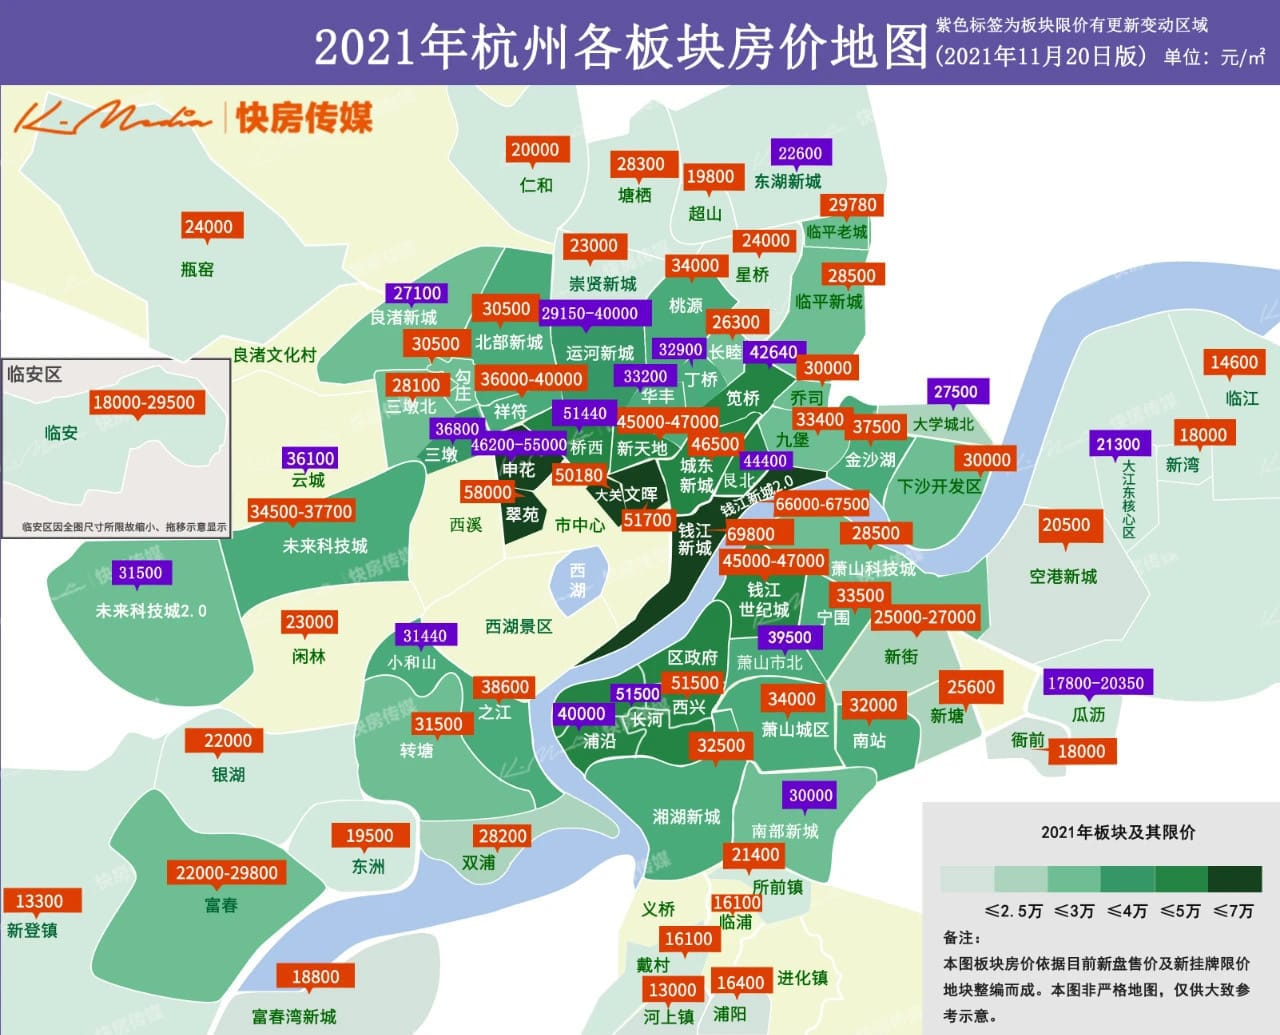
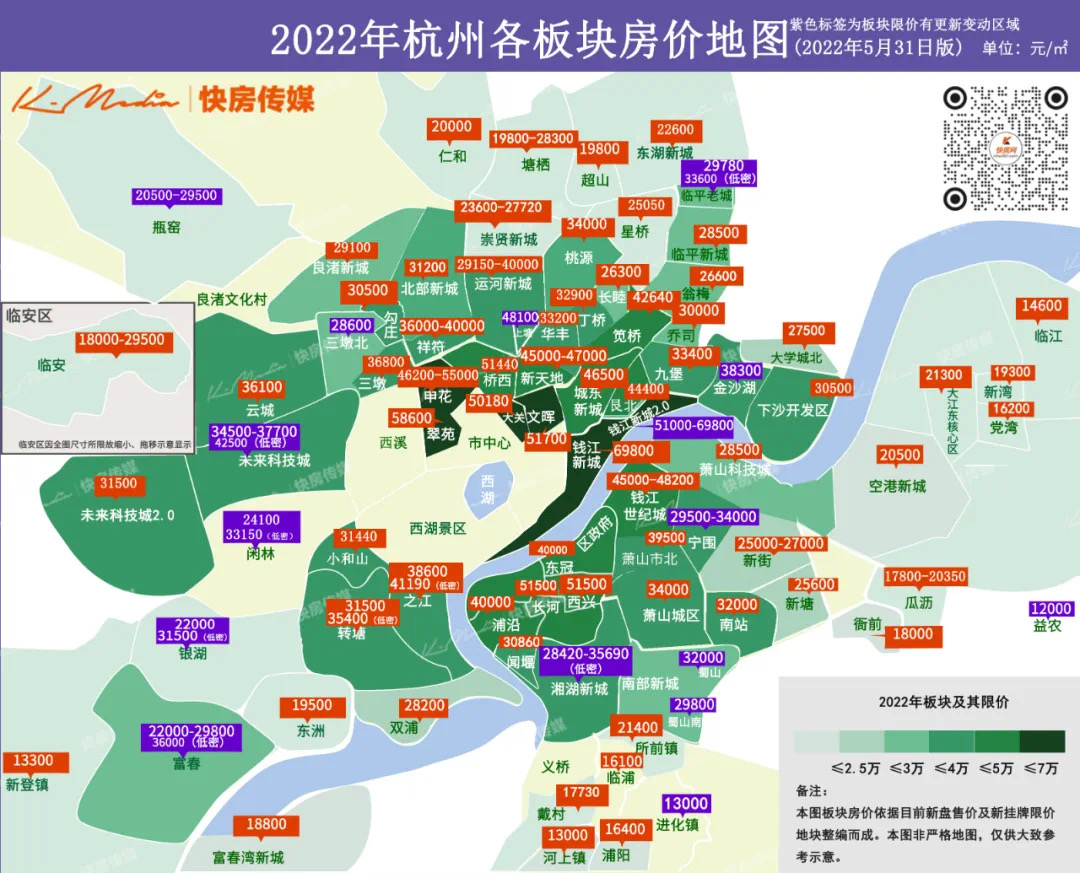
更新过时信息

diff --git a/area/README.md b/area/README.md
@@ -7,8 +7,8 @@
 ## 未来科技城
 
 :::tip 参考
-新房限价：37,000 元/平  
-二手房价格：50,000 ~ 70,000 元/平  
+新房限价：37,700 元/平  
+二手房价格：45,000 ~ 70,000 元/平  
 适合人群：有无房资格且社保月数多的新房购房者；预算充足的二手房购房者  
 :::
 
@@ -31,8 +31,8 @@
 ## 钱江世纪城
 
 :::tip 参考
-新房限价：47,000 元/平  
-二手房价格：70,000 ~ 100,000 元/平  
+新房限价：48,200 元/平  
+二手房价格：60,000 ~ 90,000 元/平  
 适合人群：有无房资格且社保月数接近满额的新房购房者；预算极充足的二手房购房者  
 :::
 
@@ -55,9 +55,9 @@
 ## 运河新城
 
 :::tip 参考
-新房限价：核心 40,000 元/平；外围 29,500 元/平  
-二手房价格：无  
-适合人群：400+万预算的新房购房者
+新房限价：核心 38,000 元/平；外围 29,500 元/平  
+二手房价格：40,000 ~ 50,000 元/平  
+适合人群：400万预算者，轻度改善、需求学区房  
 :::
 
 运河新城位于城北拱墅区，留石高架以北的京杭大运河两岸，并向东延至半山。
@@ -76,14 +76,14 @@
 
 可以看出，运河新城虽然定位不及未来科技城的高度，但是整拆整建让板块同样拥有了全新整体规划，板块中除了安置房都是可规划地块。而且规划侧重于文化层面，不再是遍地写字楼，发展前景未来可期。同时还能享受临近板块已经成熟的配套资源，加上拱墅区学区资源充足，相比未来科技城的从零发展来看，这个过渡要更平滑一些。
 
-该板块其实在2020年初还不算热门，甚至被质疑限价过高，但随着规划一点点清晰，板块热度迅速攀升，并且由于整拆也没有什么二手房值得购买，购房需求都挤压在新房上，如今中签率已经低到个位数。不过现阶段土地也供应不断，如果做好了长期摇号打算，建议不要放过这个板块。
+该板块其实在2020年初还不算热门，甚至被质疑限价过高，但随着规划一点点清晰，板块热度迅速攀升，并且由于整拆也没有什么二手房值得购买，购房需求都挤压在新房上。不过现阶段土地也供应不断，建议重点关注核心区域的新盘。
 
 ## 良渚
 
 :::tip 参考
 新房限价：29,100 元/平  
-二手房价格：35,000 ~ 42,000 元/平  
-适合人群：300+万预算的二手房购房者  
+二手房价格：30,000 ~ 38,000 元/平  
+适合人群：300万预算，城西刚需  
 :::
 
 良渚位于地铁2号线的尽头，属于余杭区，与西湖区三墩板块相邻。该板块实际属于官方划分的"良渚新城"，但由于良渚新城的范围太大（东至好运街），因此这里只讨论地铁2号线杜甫村和良渚站这部分区域。
@@ -98,9 +98,9 @@
 
 ![西湖大学效果图](../images/效果图-西湖大学.jpeg "西湖大学效果图")
 
-正如前面所说，良渚主要区域规划基本落成，所以几乎没有新盘上市，并且鉴于上一个新盘是著名“万人摇”项目，即使下次土拍有供地，也很可能沦为社保大战。
+正如前面所说，良渚主要区域规划基本落成，所以新盘稀少，可以要多点耐心。
 
-因此我推荐关注这个板块的优先考虑二手房，良渚二手房数量充足，价格相比其他热门板块不算夸张，大部分在 3.5~4 万/平左右，并且很多是 90 平以下的刚需小户型，如果总价预算只有 300 万多点的刚需，在这里还有一定选择空间。
+因此我推荐关注这个板块的优先考虑二手房，良渚二手房数量充足，价格相比其他热门板块不算夸张，大部分在 3~3.5 万/平左右，并且很多是 90 平以下的刚需小户型，如果总价预算只有 300 万的刚需，在这里还有一定选择空间。
 
 <InArticleAdsense :data-ad-client=$themeConfig.ads.client :data-ad-slot=$themeConfig.ads.inSlot is-new-ads-code="yes"></InArticleAdsense>
 
@@ -108,8 +108,8 @@
 
 :::tip 参考
 新房限价：31,200元/平  
-二手房价格：38,000 ~ 45,000 元/平  
-适合人群：300+万预算的新房购房者；350+万预算的二手房购房者  
+二手房价格：35,000 ~ 40,000 元/平  
+适合人群：350万预算者，城北刚需  
 :::
 
 北部新城位于余杭区东北部，范围东至京杭大运河，南至拱墅区区界，西至西湖区区界，北至绕城高速公路。勾庄则是指原本的勾庄镇区域，现在大部分已经被拆迁，并划入北部新城范围，所以这里一并介绍。
@@ -126,14 +126,14 @@
 
 目前新房也供应不断，虽然限价导致竞争较为激烈，但仍然推荐多关注这块区域。
 
-二手房普遍是近几年刚交房，这里只推荐关注中心地段（因为边缘地段的配套目前几乎没有），价格目前都在 4 万/平偏上，而且 90 平以下的小户型不多，所以总价预算需要达到 350 万以上。
+二手房普遍是近几年刚交房，这里只推荐关注中心地段（因为边缘地段的配套目前几乎没有），价格目前都在 4 万/平左右，而且 90 平以下的小户型不多，所以总价预算需要达到 350 万以上。
 
 ## 闲林
 
 :::tip 参考
-新房限价：24,110 元/平  
+新房限价：24,100 元/平  
 二手房价格：24,000 ~ 40,000 元/平  
-适合人群：250+万预算的购房者
+适合人群：250万预算者，未科刚需  
 :::
 
 闲林板块位于未来科技城板块南侧，理论上绿汀路以南一直到富阳区边界都应该算作闲林范围，这里只讨论靠近未来科技城这部分区域。

diff --git a/purchase/README.md b/purchase/README.md
@@ -30,8 +30,6 @@
 
 可以看出人才家庭实际参与了三次摇号，而无房家庭也参与了两次摇号，因此概率上会有明显优势。
 
-并且对于无房家庭还有一项特别照顾，如果楼盘公示均价低于 35,000 元/平方，则无房家庭倾斜比例固定为50%，其他价位的倾斜比例则由相关部门审批决定（通常为20%）。
-
 <InArticleAdsense :data-ad-client=$themeConfig.ads.client :data-ad-slot=$themeConfig.ads.inSlot is-new-ads-code="yes"></InArticleAdsense>
 
 ### 高层次人才
@@ -87,11 +85,15 @@
 
 ### 限售
 
-为了打击短期投机客，政府出台的还有限售政策。购买以下几种情况的新房，将被限制5年内无法进入市场转卖：
-1. 以人才身份参加摇号购买的房源；
-2. 购买综合中签率低于10%的房源（综合中签率=中签户数/报名总户数，由于存在相同月数入围的情况，依然可能低于10%）。
+:::warning 注意
+限售政策现已取消，但历史被限售的房源依然生效
+:::
 
-限售是以缴纳房产契税之日开始计算，而缴纳契税必须在交房之后，因此实际限售一般长达7~8年。
+~~为了打击短期投机客，政府出台的还有限售政策。购买以下几种情况的新房，将被限制5年内无法进入市场转卖：~~  
+~~1. 以人才身份参加摇号购买的房源；~~  
+~~2. 购买综合中签率低于10%的房源（综合中签率=中签户数/报名总户数，由于存在相同月数入围的情况，依然可能低于10%）。~~  
+
+~~限售是以缴纳房产契税之日开始计算，而缴纳契税必须在交房之后，因此实际限售一般长达7~8年。~~
 
 <InArticleAdsense :data-ad-client=$themeConfig.ads.client :data-ad-slot=$themeConfig.ads.inSlot is-new-ads-code="yes"></InArticleAdsense>
 

diff --git a/policy/README.md b/policy/README.md
@@ -109,7 +109,7 @@
 上浮基点则是各地各家银行自行设定，并且只要贷款合同生效后则不再变化。因此当政策和放贷收紧时，一般上浮基点都会明显提高，以限制更多的房贷申请。另外一般首套房的上浮基点会更低一点。
 
 :::tip 例如
-最新的5年期以上 LPR 基准利率是 4.65%，在某银行申请房贷时约定上浮 45BP 利率，也就是上浮 0.45%，那实际房贷利率是 `LPR (4.65%) + 45BP (0.45%) = 5.1%`。
+假设最新的5年期以上 LPR 基准利率是 4.5%，在某银行申请房贷时约定上浮 45BP 利率，也就是上浮 0.45%，那实际房贷利率是 `LPR (4.5%) + 45BP (0.45%) = 4.95%`。
 :::
 
 通过商业贷款能贷多少钱，取决于银行对你还款能力的评判。通常的评判依据是你的月收入，银行会让你提供工作单位开具的工资证明、工资银行卡的流水等材料来进行审核。一般要求月收入必须大于每月还款额的2倍，也就是你想申请每月还1万元的贷款，必须提供每月2万元以上的收入证明（当然有些银行可能要求更高）。以夫妻名义买房可以提供双方材料按双方月收入之和。

diff --git a/faq/README.md b/faq/README.md
@@ -33,16 +33,3 @@
 ## 更多问题
 
 这里列的都是常见的宽泛的问题，如果想咨询一些细致的针对性的问题，可以发布到[讨论区](https://github.com/zkqiang/hangzhou-house-guide/discussions)，让大家一起来帮助你。
-
-我本人也提供**付费咨询**，微信发 `100元红包` 可享受无限期无限次数解答。
-
-当前这里事先声明： 
-1. 解答都是我个人观点，不承担任何责任与后果。
-2. 注意本文包含的内容就不要浪费红包去提问了。
-3. 并不是所有问题都能解答，比如"以后能涨多少"这种我无法作答。
-4. 如果你认为我没有给你提供有效的帮助，可以提出退款。
-5. 有些问题更建议去找房产置业顾问免费咨询。
-
-没意见可以加我微信，验证信息填"购房"：
-
-<img width="240px" src="https://cdn.jsdelivr.net/gh/fluid-dev/static@master/hexo-theme-fluid/wechat.png" alt="微信二维码">
